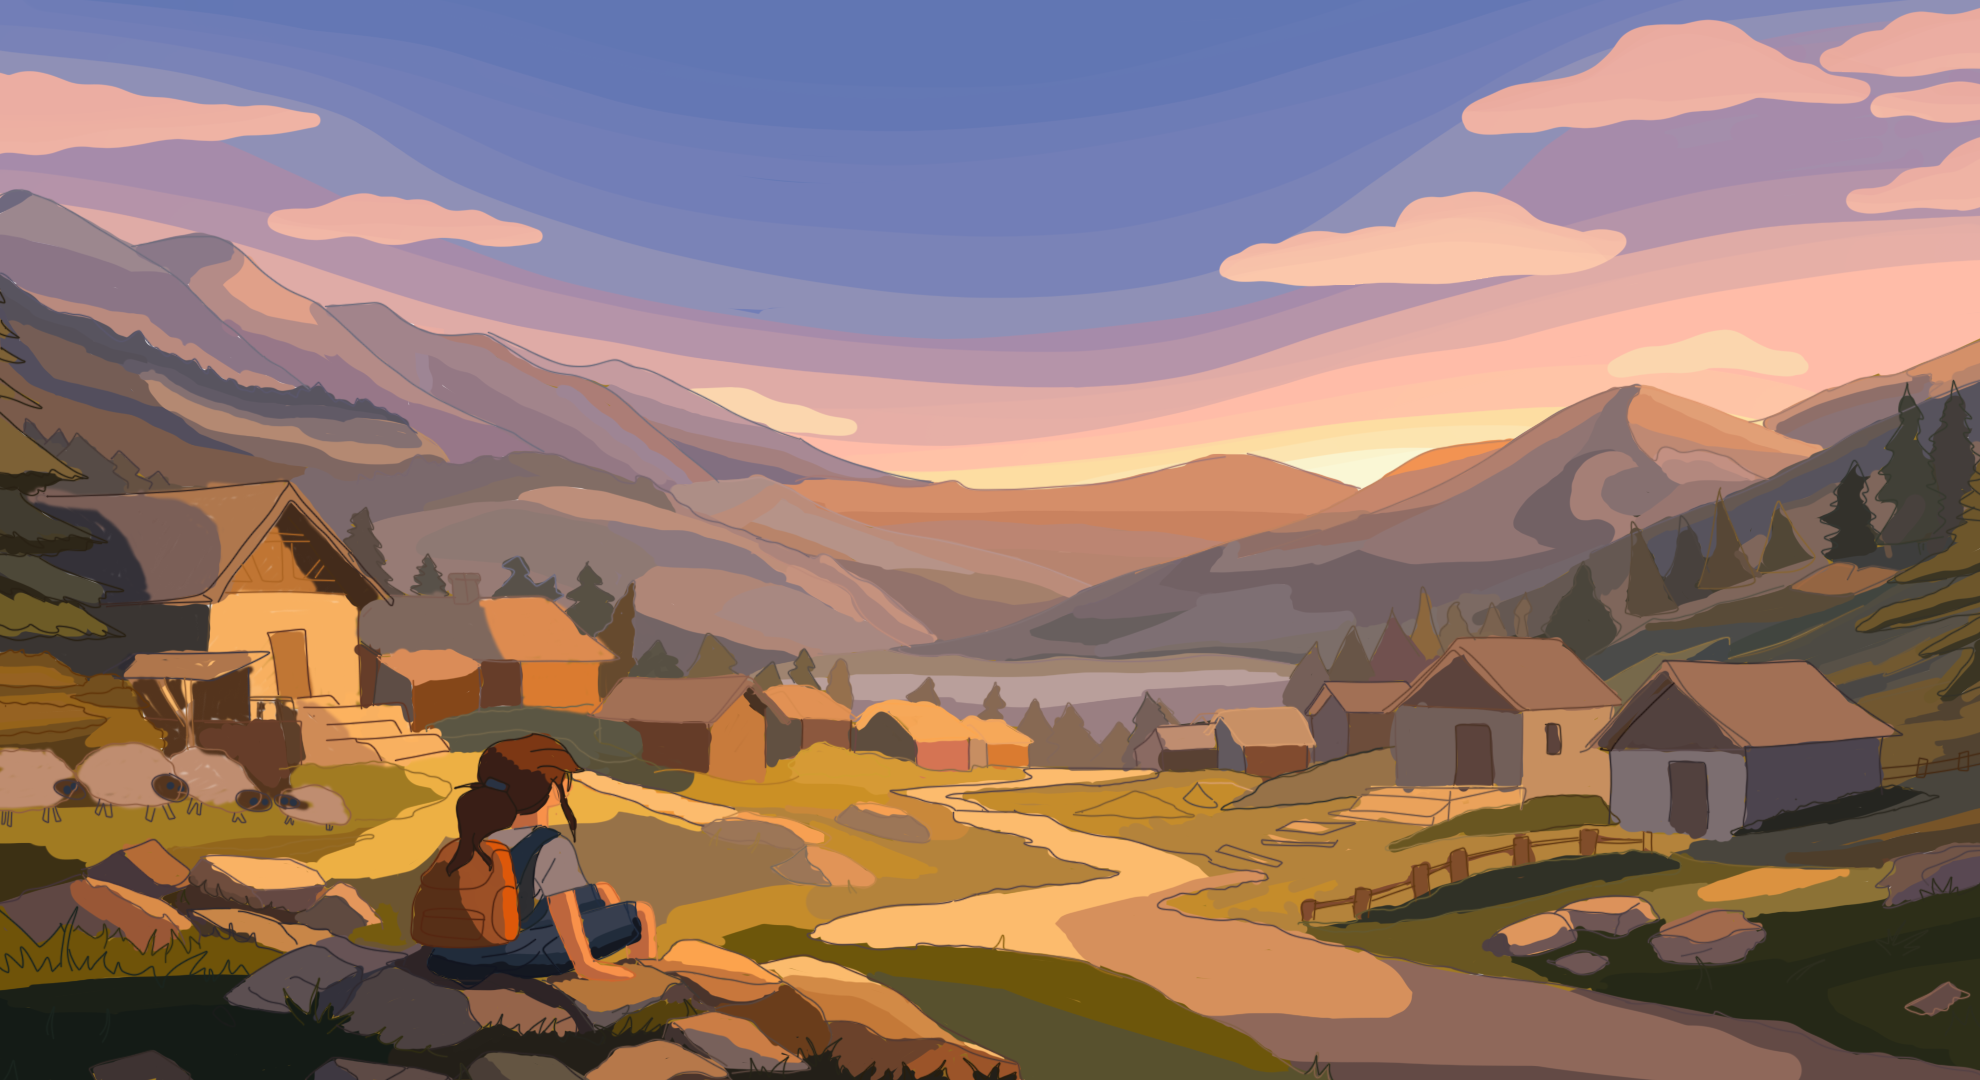
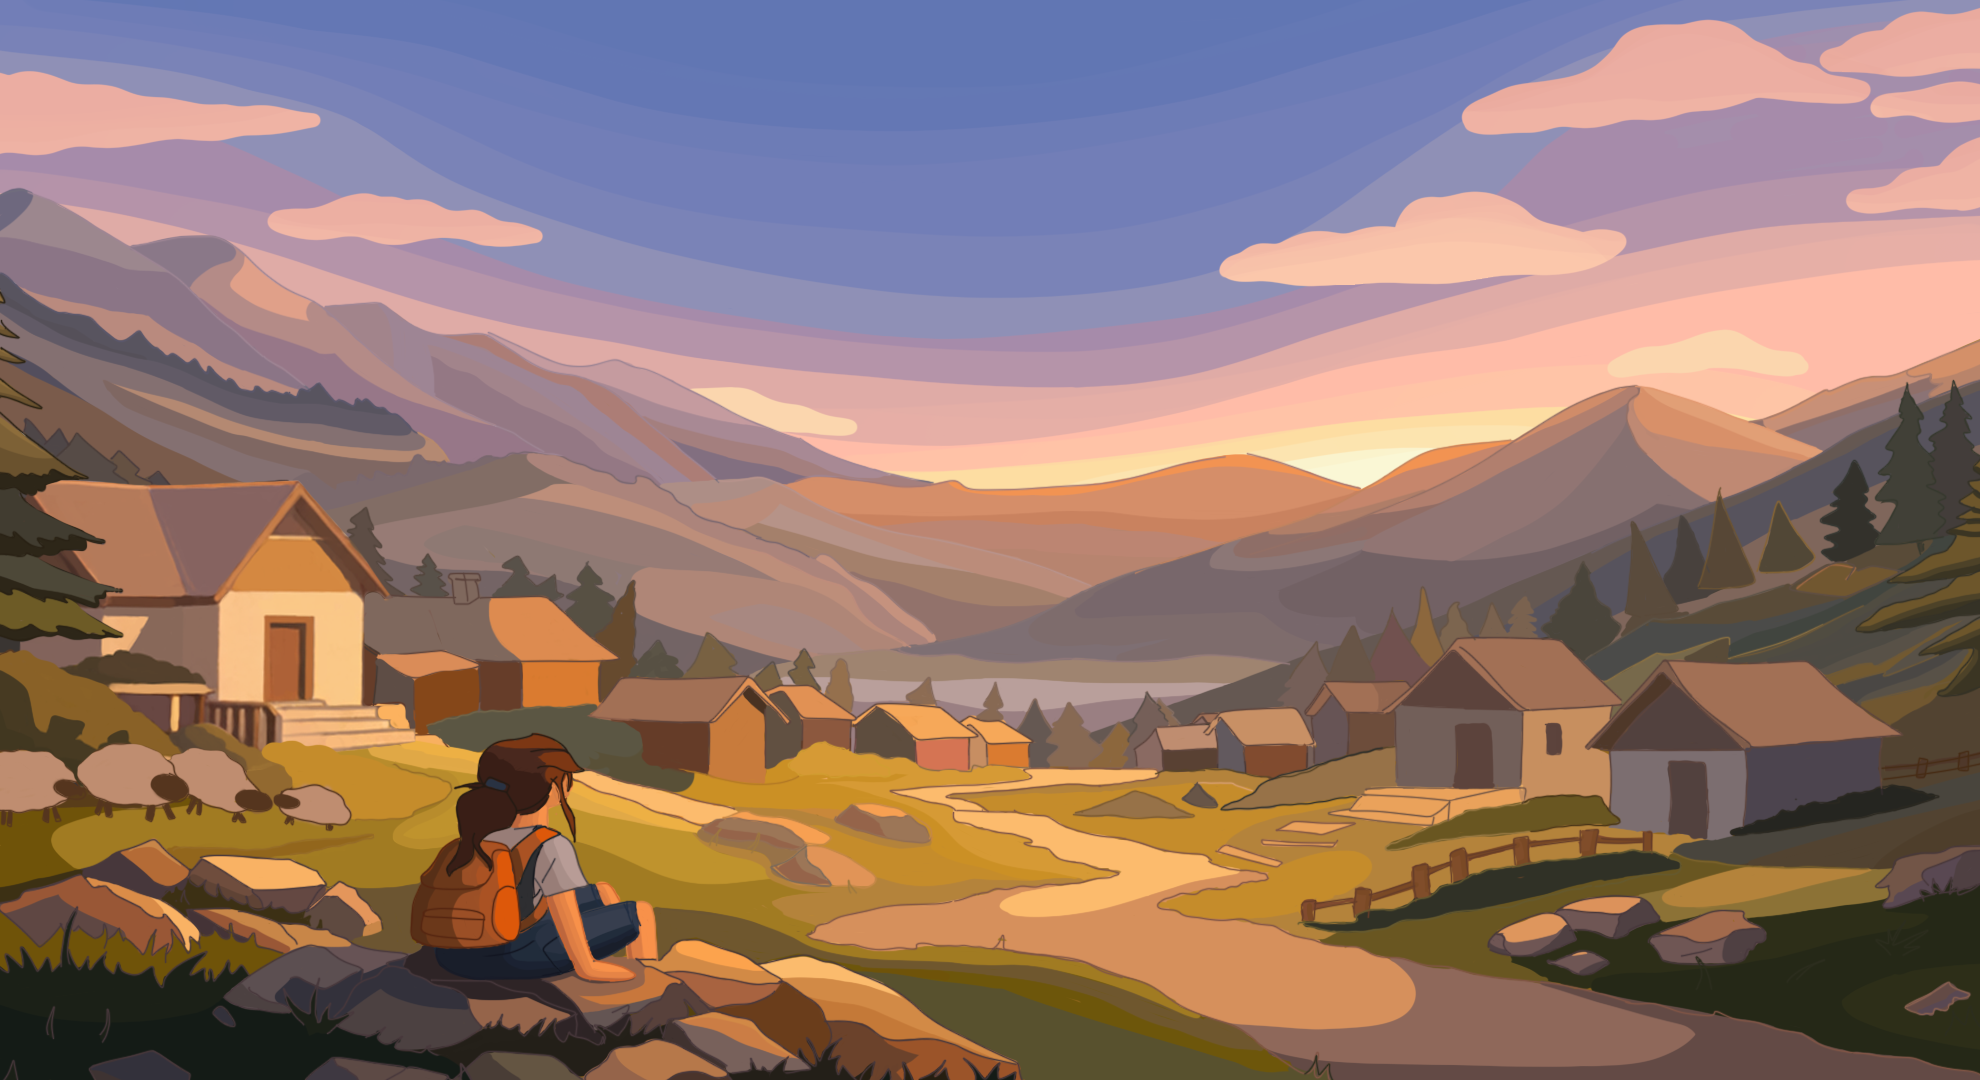
small fix

diff --git a/src/pages/Experience.tsx b/src/pages/Experience.tsx
@@ -48,9 +48,9 @@ export function Experience() {
                 <h3>Education</h3>
               </div>
               <p>
-                <strong>International Burch University</strong>
+                <strong>SAE Institute Belgrade</strong>
                 <br />
-                Information Technology
+                Art and Animation in Video Games
               </p>
               <p className="small-copy">
                 Relevant areas: game development, programming, UX/UI, software
